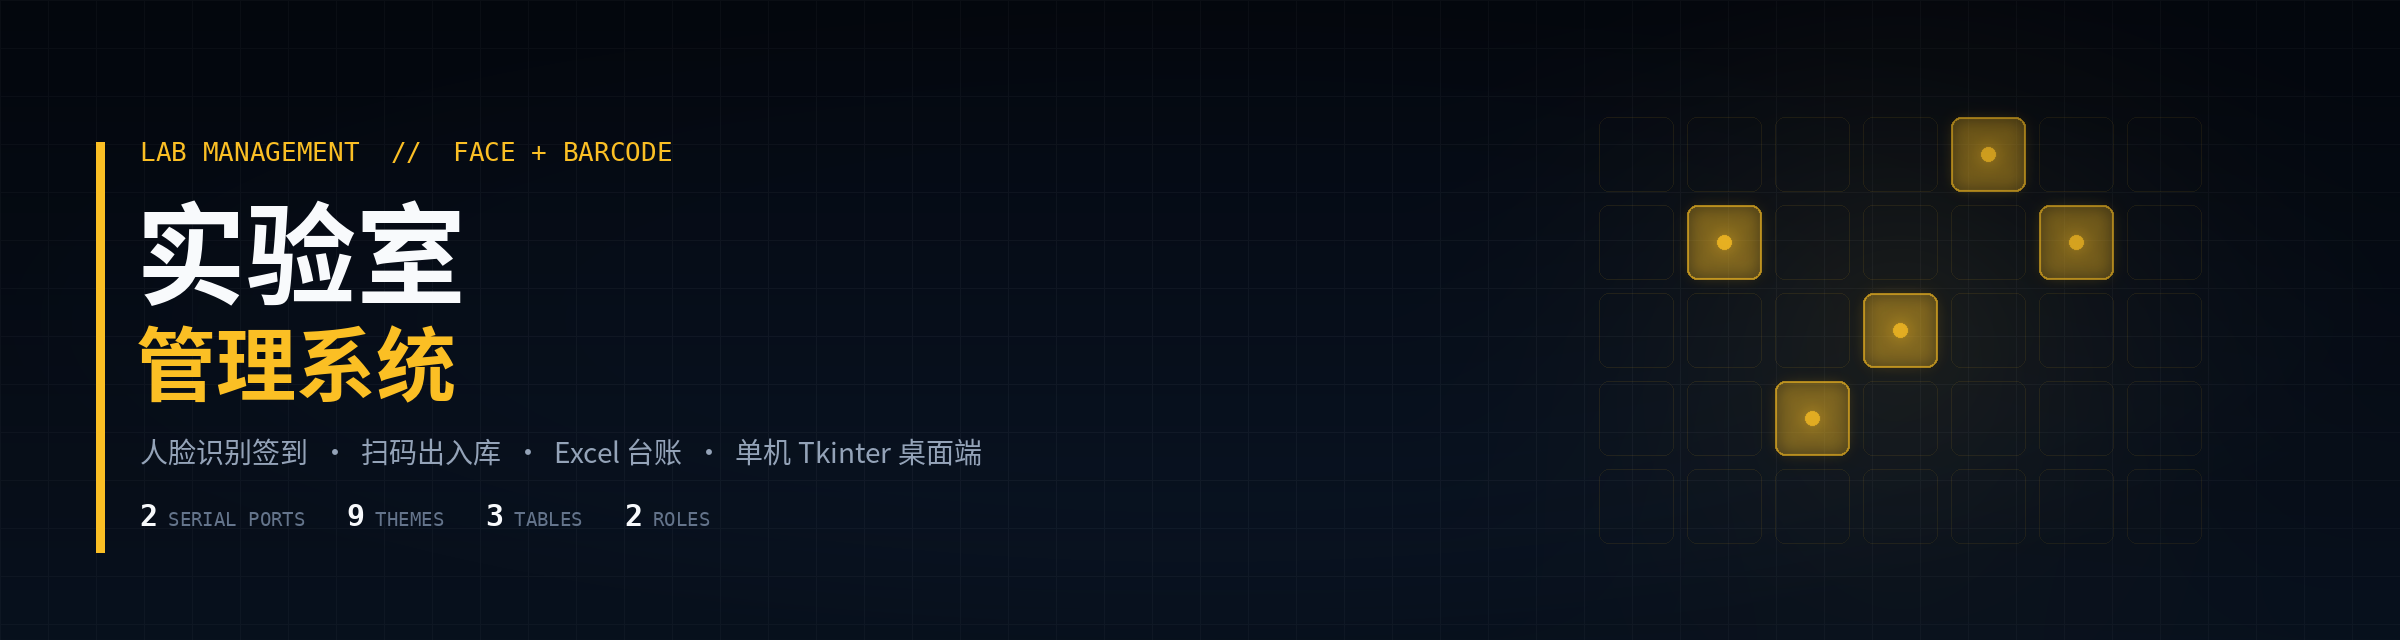
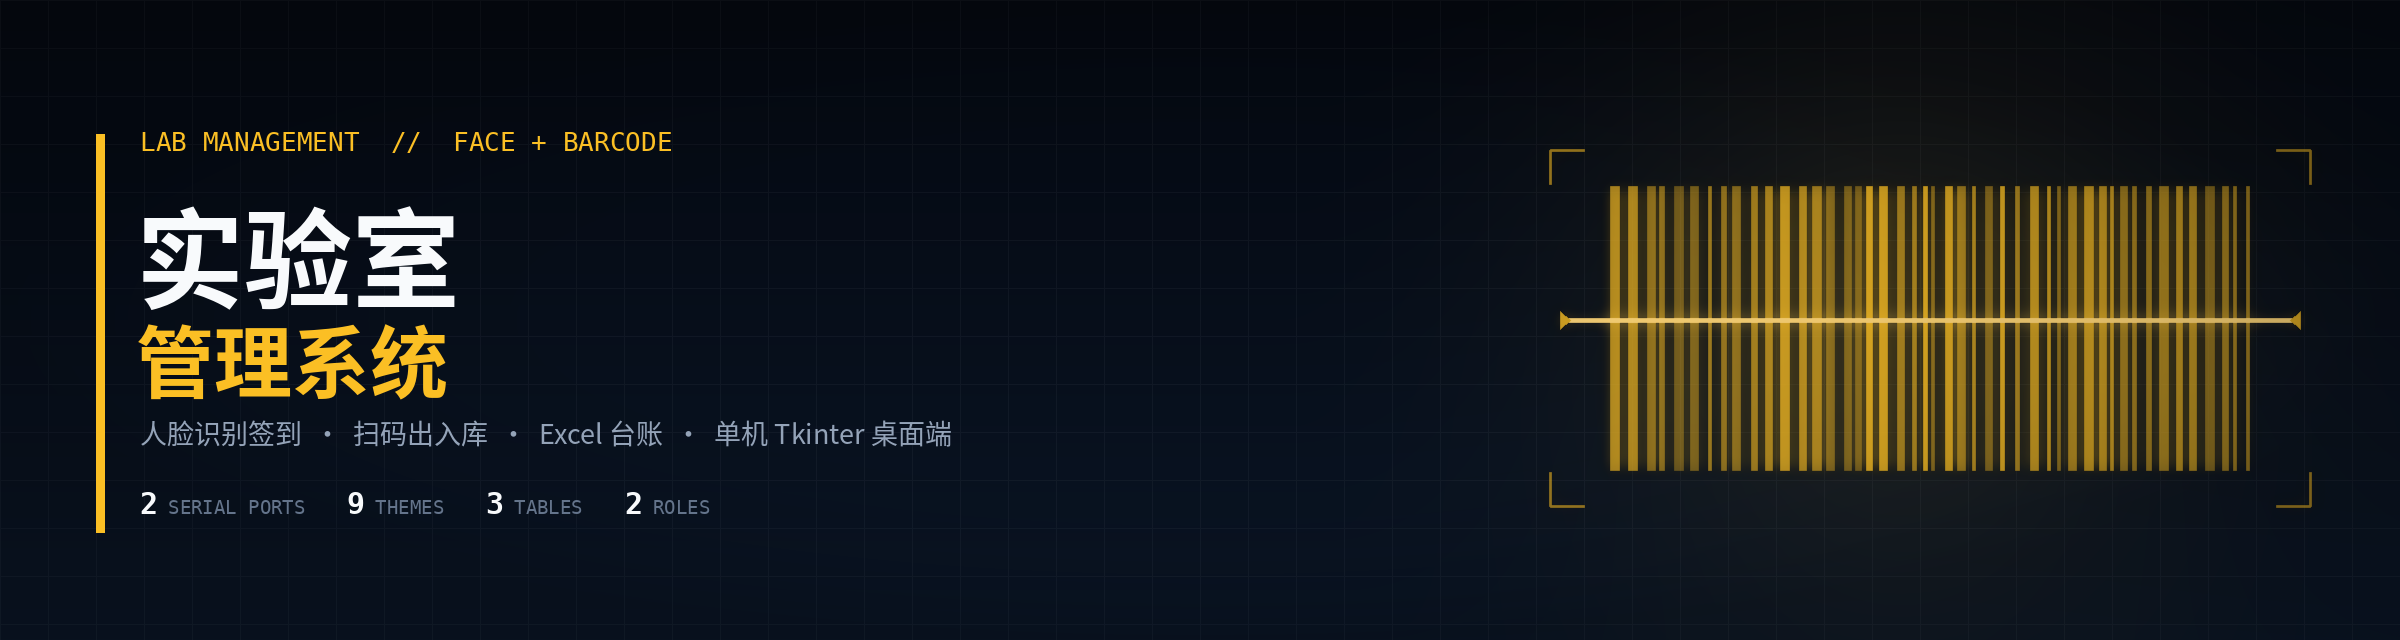
docs(readme): 头图改为条码扫描构图，开篇改为稳定性优先
- 头图：条码 + 扫描光带 + 取景框，贴合扫码出入库场景
- 开篇先讲拔线/断电/误操作保护，单机边界下沉到限制一节
- 生成脚本随仓库提供，可复现

diff --git a/docs/assets/generate_banner.py b/docs/assets/generate_banner.py
@@ -1,8 +1,5 @@
 #!/usr/bin/env python3
-"""README banner generator (shared style, per-project config).
-
-Usage: python3 generate_banner.py [output]
-"""
+"""Bespoke README banners, one composition per project."""
 import sys
 from pathlib import Path
 
@@ -10,161 +7,122 @@ import numpy as np
 from PIL import Image, ImageDraw, ImageFilter, ImageFont
 
 W, H = 2400, 640
-CJK = "/usr/share/fonts/opentype/noto/NotoSansCJK-Bold.ttc"
+CJK_B = "/usr/share/fonts/opentype/noto/NotoSansCJK-Bold.ttc"
 CJK_R = "/usr/share/fonts/opentype/noto/NotoSansCJK-Regular.ttc"
 FONT_DIR = Path("/usr/share/matplotlib/mpl-data/fonts/ttf")
-MONO = FONT_DIR / "DejaVuSansMono.ttf"
-MONO_B = FONT_DIR / "DejaVuSansMono-Bold.ttf"
+WHITE = (248, 250, 252)
 
 
-def font(path, size, index=0):
-    return ImageFont.truetype(str(path), size, index=index)
+def f_cjk(size, bold=True):
+    return ImageFont.truetype(CJK_B if bold else CJK_R, size, index=2)
 
 
-def cjk(size, bold=True):
-    return font(CJK if bold else CJK_R, size, index=2)
+def f_sans(size):
+    return ImageFont.truetype(str(FONT_DIR / "DejaVuSans-Bold.ttf"), size)
+
+
+def f_mono(size, bold=False):
+    return ImageFont.truetype(str(FONT_DIR / ("DejaVuSansMono-Bold.ttf" if bold else "DejaVuSansMono.ttf")), size)
+
+
+def use_cjk(text):
+    return any(ord(ch) > 0x2E80 for ch in text)
 
 
 CONFIGS = {
     "lab": dict(
         kicker="LAB MANAGEMENT  //  FACE + BARCODE",
-        lines=[("实验室", 110, "white"), ("管理系统", 80, "accent")],
+        lines=[("实验室", 108), ("管理系统", 78)],
         subtitle="人脸识别签到  ·  扫码出入库  ·  Excel 台账  ·  单机 Tkinter 桌面端",
         metrics=[("2", "SERIAL PORTS"), ("9", "THEMES"), ("3", "TABLES"), ("2", "ROLES")],
-        accent=(251, 191, 36),
-        motif="grid",
-        seed=9,
+        accent=(251, 191, 36), text_y=140, subtitle_y=412, metrics_y=486,
     ),
 }
 
 
-def gradient(top, bottom):
-    t = np.linspace(0, 1, H)[:, None, None]
-    return np.repeat(np.array(top)[None, None, :] * (1 - t) + np.array(bottom)[None, None, :] * t, W, axis=1)
-
-
 def base():
-    img = gradient((5, 9, 17), (11, 22, 38))
+    t = np.linspace(0, 1, H)[:, None, None]
+    img = np.repeat(np.array((5, 9, 17))[None, None, :] * (1 - t)
+                    + np.array((11, 22, 38))[None, None, :] * t, W, axis=1)
     ys, xs = np.mgrid[0:H, 0:W].astype(float)
     img[((xs % 48) < 1) | ((ys % 48) < 1)] += 9.0
     return img
 
 
-def soft_ring(img, cx, cy, radius, accent, strength=0.22):
+def vignette(canvas):
     ys, xs = np.mgrid[0:H, 0:W].astype(float)
-    r = np.hypot(xs - cx, ys - cy)
-    ring = np.abs(r - radius) < 1.1
-    img += ring[..., None] * np.array(accent) * strength
+    vx = (xs - W / 2) / (W / 2)
+    vy = (ys - H / 2) / (H / 2)
+    vig = 1.0 - 0.20 * np.clip(vx ** 2 + vy ** 2, 0, 1) ** 1.5
+    arr = np.asarray(canvas.convert("RGB"), dtype=float) * vig[..., None]
+    return Image.fromarray(np.clip(arr, 0, 255).astype(np.uint8), "RGB").convert("RGBA")
 
 
-def motif_network(ov, d, accent, seed, cx=1900, cy=330, radius=255):
-    rng = np.random.default_rng(seed)
-    pts = []
-    while len(pts) < 22:
-        x, y = rng.uniform(-1, 1, 2)
-        if x * x + y * y <= 1.0:
-            pts.append((cx + x * radius, cy + y * radius))
-    for i, p in enumerate(pts):
-        near = sorted(((np.hypot(p[0] - q[0], p[1] - q[1]), j) for j, q in enumerate(pts) if j != i))[:2]
-        for _, j in near:
-            d.line([p, pts[j]], fill=accent + (34,), width=1)
-    for ring in (250, 300):
-        d.ellipse([cx - ring, cy - ring, cx + ring, cy + ring], outline=accent + (12,), width=1)
-    for i, p in enumerate(pts):
-        rr = 4.4 if i % 4 == 0 else 2.4
-        color = (248, 250, 252, 235) if i % 4 == 0 else accent + (205,)
-        d.ellipse([p[0] - rr, p[1] - rr, p[0] + rr, p[1] + rr], fill=color)
-    d.ellipse([cx - 5, cy - 5, cx + 5, cy + 5], fill=accent + (240,))
+def halo(img, cx, cy, accent, radius=600, strength=0.20):
+    ys, xs = np.mgrid[0:H, 0:W].astype(float)
+    d = np.hypot(xs - cx, ys - cy) / radius
+    img += (np.clip(1 - d, 0, 1) ** 2 * strength)[..., None] * np.array(accent) * 0.6
 
 
-def motif_wave(d, accent, cx=1890, cy=330):
-    rng = np.random.default_rng(5)
-    n = 64
-    span = 780
-    bw = 7
-    gap = (span - n * bw) / (n - 1)
-    for i in range(n):
-        x = cx - span / 2 + i * (bw + gap)
-        env = np.exp(-((i - n / 2) / (n / 2.6)) ** 2)
-        h = 30 + 250 * env * (0.25 + 0.75 * abs(np.sin(i * 0.55 + rng.normal(0, 0.15))))
-        alpha = int(40 + 150 * env)
-        d.rounded_rectangle([x, cy - h, x + bw, cy + h], radius=bw / 2, fill=accent + (alpha,))
-    d.line([cx - span / 2 - 20, cy, cx + span / 2 + 20, cy], fill=accent + (40,), width=1)
+def draw_text(canvas, cfg):
+    d = ImageDraw.Draw(canvas)
+    accent = cfg["accent"]
+    left, y = 140, cfg["text_y"]
+    d.rectangle((96, cfg["text_y"] - 6, 104, cfg["metrics_y"] + 46), fill=accent + (190,))
+    d.text((left, y - 14), cfg["kicker"], font=f_mono(26), fill=accent + (255,))
+    y += 34
+    for i, (text, size) in enumerate(cfg["lines"]):
+        f = f_cjk(size) if use_cjk(text) else f_sans(size)
+        d.text((left - 4, y), text, font=f, fill=(WHITE if i == 0 else accent) + (255,))
+        y += int(size * 1.14) + 4
+    d.text((left, cfg["subtitle_y"]), cfg["subtitle"], font=f_cjk(27, bold=False), fill=(148, 163, 184, 255))
+    x = left
+    for value, label in cfg["metrics"]:
+        d.text((x, cfg["metrics_y"]), value, font=f_mono(30, True), fill=WHITE + (255,))
+        wv = d.textlength(value, font=f_mono(30, True))
+        d.text((x + wv + 10, cfg["metrics_y"] + 10), label, font=f_mono(19), fill=(100, 116, 139, 255))
+        x += wv + 10 + d.textlength(label, font=f_mono(19)) + 42
 
 
-def motif_grid(d, accent, cx=1900, cy=330):
-    cols, rows, cell, gap = 7, 5, 74, 14
-    x0 = cx - (cols * cell + (cols - 1) * gap) / 2
-    y0 = cy - (rows * cell + (rows - 1) * gap) / 2
-    hot = {(1, 1), (3, 2), (5, 1), (2, 3), (4, 0)}
-    for r in range(rows):
-        for c in range(cols):
-            x = x0 + c * (cell + gap)
-            y = y0 + r * (cell + gap)
-            if (c, r) in hot:
-                d.rounded_rectangle([x, y, x + cell, y + cell], radius=10, fill=accent + (70,), outline=accent + (200,), width=2)
-                d.ellipse([x + cell / 2 - 7, y + cell / 2 - 7, x + cell / 2 + 7, y + cell / 2 + 7], fill=accent + (230,))
-            else:
-                d.rounded_rectangle([x, y, x + cell, y + cell], radius=10, outline=accent + (34,), width=1)
+# ---------------------------------------------------------------- motifs
+
+def motif_barcode(d, accent):
+    rng = np.random.default_rng(7)
+    x, y0, y1 = 1610, 186, 470
+    while x < 2250:
+        w = int(rng.integers(3, 10))
+        a = int(rng.integers(90, 210))
+        d.rectangle([x, y0, x + w, y1], fill=accent + (a,))
+        x += w + int(rng.integers(4, 12))
+    beam_y = 320
+    d.rectangle([1560, beam_y - 2, 2300, beam_y + 2], fill=(255, 214, 120, 235))
+    for xx in (1560, 2300):
+        d.polygon([(xx, beam_y - 9), (xx, beam_y + 9), (xx + (10 if xx < 1800 else -10), beam_y)],
+                  fill=accent + (200,))
+    b = 34
+    for cx, cy, sx, sy in ((1550, 150, 1, 1), (2310, 150, -1, 1), (1550, 506, 1, -1), (2310, 506, -1, -1)):
+        d.line([(cx, cy), (cx + sx * b, cy)], fill=accent + (150,), width=3)
+        d.line([(cx, cy), (cx, cy + sy * b)], fill=accent + (150,), width=3)
 
 
-def render(name, out):
-    cfg = CONFIGS[name]
+def render(out):
+    cfg = CONFIGS["lab"]
     accent = cfg["accent"]
     img = base()
-
-    # soft halo behind the motif
-    ys, xs = np.mgrid[0:H, 0:W].astype(float)
-    d2 = np.hypot(xs - 1900, ys - 330) / 520.0
-    halo = np.clip(1 - d2, 0, 1) ** 2 * 0.16
-    img += halo[..., None] * np.array(accent) * 0.55
+    halo(img, 1900, 320, accent, 620, 0.20)
 
     ov = Image.new("RGBA", (W, H), (0, 0, 0, 0))
     d = ImageDraw.Draw(ov)
-    if cfg["motif"] == "network":
-        motif_network(ov, d, accent, cfg["seed"])
-    elif cfg["motif"] == "wave":
-        motif_wave(d, accent)
-    else:
-        motif_grid(d, accent)
+    motif_barcode(d, accent)
 
-    glow = ov.filter(ImageFilter.GaussianBlur(9))
     canvas = Image.fromarray(np.clip(img, 0, 255).astype(np.uint8), "RGB").convert("RGBA")
-    canvas = Image.alpha_composite(canvas, glow)
+    canvas = Image.alpha_composite(canvas, ov.filter(ImageFilter.GaussianBlur(7)))
     canvas = Image.alpha_composite(canvas, ov.filter(ImageFilter.GaussianBlur(0.4)))
-
-    # vignette before text
-    vx = (xs - W / 2) / (W / 2)
-    vy = (ys - H / 2) / (H / 2)
-    vig = 1.0 - 0.22 * np.clip(vx ** 2 + vy ** 2, 0, 1) ** 1.4
-    arr = np.asarray(canvas.convert("RGB"), dtype=float) * vig[..., None]
-    canvas = Image.fromarray(np.clip(arr, 0, 255).astype(np.uint8), "RGB").convert("RGBA")
-
-    d = ImageDraw.Draw(canvas)
-    d.rectangle((96, 142, 104, 552), fill=accent + (190,))
-    left = 140
-    d.text((left, 136), cfg["kicker"], font=font(MONO, 26), fill=accent + (255,))
-
-    y = 168
-    for text, size, color in cfg["lines"]:
-        f = cjk(size) if any(ord(ch) > 0x2E80 for ch in text) else font(FONT_DIR / "DejaVuSans-Bold.ttf", size)
-        d.text((left - 4, y), text, font=f, fill=(248, 250, 252, 255) if color == "white" else accent + (255,))
-        y += int(size * 1.16) + 6
-
-    d.text((left, 430), cfg["subtitle"], font=cjk(28, bold=False), fill=(148, 163, 184, 255))
-
-    x = left
-    for value, label in cfg["metrics"]:
-        if not value:
-            continue
-        d.text((x, 498), value, font=font(MONO_B, 30), fill=(248, 250, 252, 255))
-        wv = d.textlength(value, font=font(MONO_B, 30))
-        d.text((x + wv + 10, 508), label, font=font(MONO, 19), fill=(100, 116, 139, 255))
-        x += wv + 10 + d.textlength(label, font=font(MONO, 19)) + 42
-
+    canvas = vignette(canvas)
+    draw_text(canvas, cfg)
     canvas.convert("RGB").save(out, optimize=True)
     print(f"wrote {out} ({Path(out).stat().st_size / 1024:.0f} KB)")
 
 
 if __name__ == "__main__":
-    render("lab", sys.argv[1] if len(sys.argv) > 1 else "banner.png")
+    render(sys.argv[1] if len(sys.argv) > 1 else "banner.png")

diff --git a/README.md b/README.md
@@ -18,8 +18,7 @@
 
 ---
 
-> [!NOTE]
-> 这是**单机桌面工具**，不是多用户服务端：数据存在一个 Excel 工作簿里，适合一台或两台实验台电脑使用。并发写入、集中部署、加密存储都不在其设计范围内。
+> 一台实验台电脑 + 两个串口设备即可运行：刷脸签到、扫码出入库、Excel 台账，拔线、断电、误操作都有对应保护，换人接手也不用重新学一套系统。
 
 | 串口通道 | 外观主题 | 工作表 | 角色 |
 | :---: | :---: | :---: | :---: |
@@ -144,8 +143,8 @@ README_UBUNTU.md            Ubuntu 部署补充说明
 
 - 已验证：双串口监听与断线重连、刷脸 / 扫码登录、入库出库、重复扫码提示、签到去重、备份与损坏恢复、9 款主题切换、开机自启。
 - **无自动化测试**：本项目以手工流程验证为主；改动串口解析或写库逻辑后请用示例数据回归一遍。
+- 单机桌面工具（非多用户服务端）：数据在一个 Excel 工作簿里，适合一台或两台实验台电脑；不要让多台电脑同时打开同一文件。
 - 仅支持 Ubuntu / Linux 桌面（依赖 `/dev/ttyS*` 与桌面自启）；Windows 未适配。
-- 单机单用户写入；不要多台电脑同时打开同一个 Excel 文件。
 - 数据未加密；台账与备份请按敏感资料保管。
 
 ## 许可
